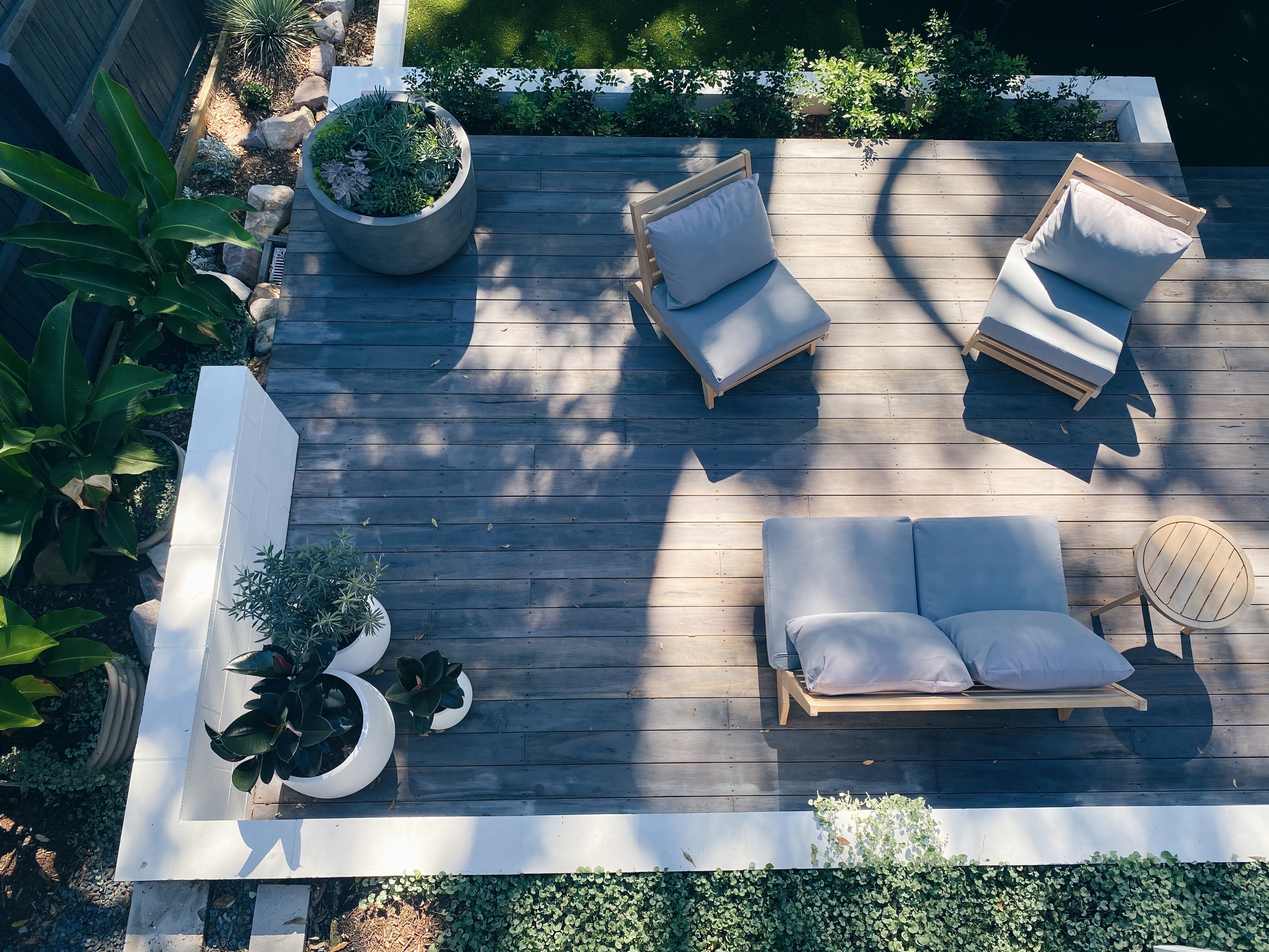
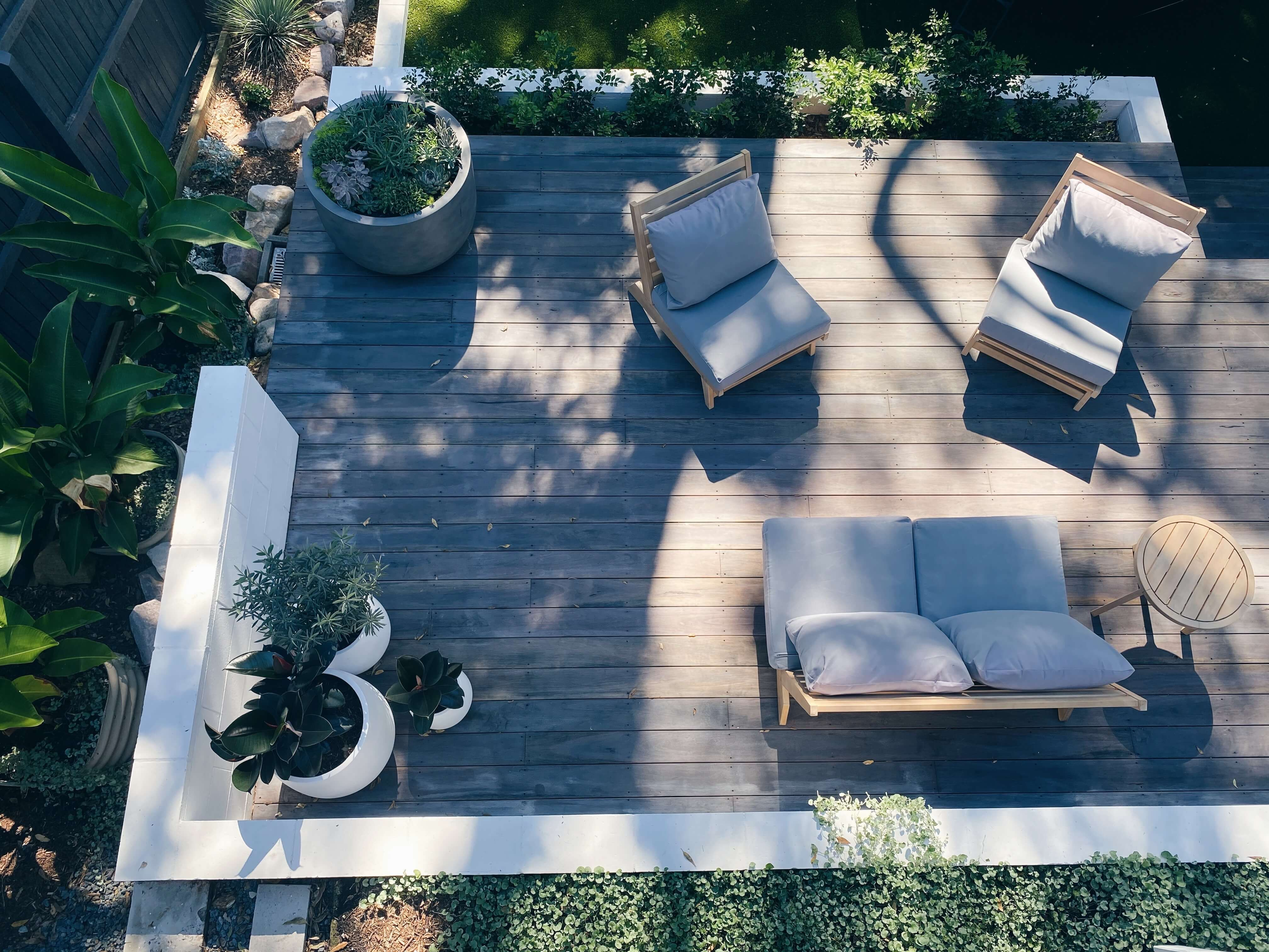
Image optimalization

Changed region(s): [[0.2812, 0.9636, 0.3438, 1.0], [0.6562, 0.0622, 0.6875, 0.1243], [0.5625, 0.9947, 0.5938, 1.0]]

diff --git a/src/sass/components/_quotation-banner.scss b/src/sass/components/_quotation-banner.scss
@@ -4,9 +4,10 @@
       rgba($color-green-dark, 0.8) 0%,
       rgba($color-green-dark, 0.8) 100%
     ),
-    url('../../assets/images/banner-background.jpg');
+    url('../../assets/images/banner-background.webp');
   background-size: cover;
   background-position: center;
+
   .container {
     width: 100%;
     height: 10rem;
